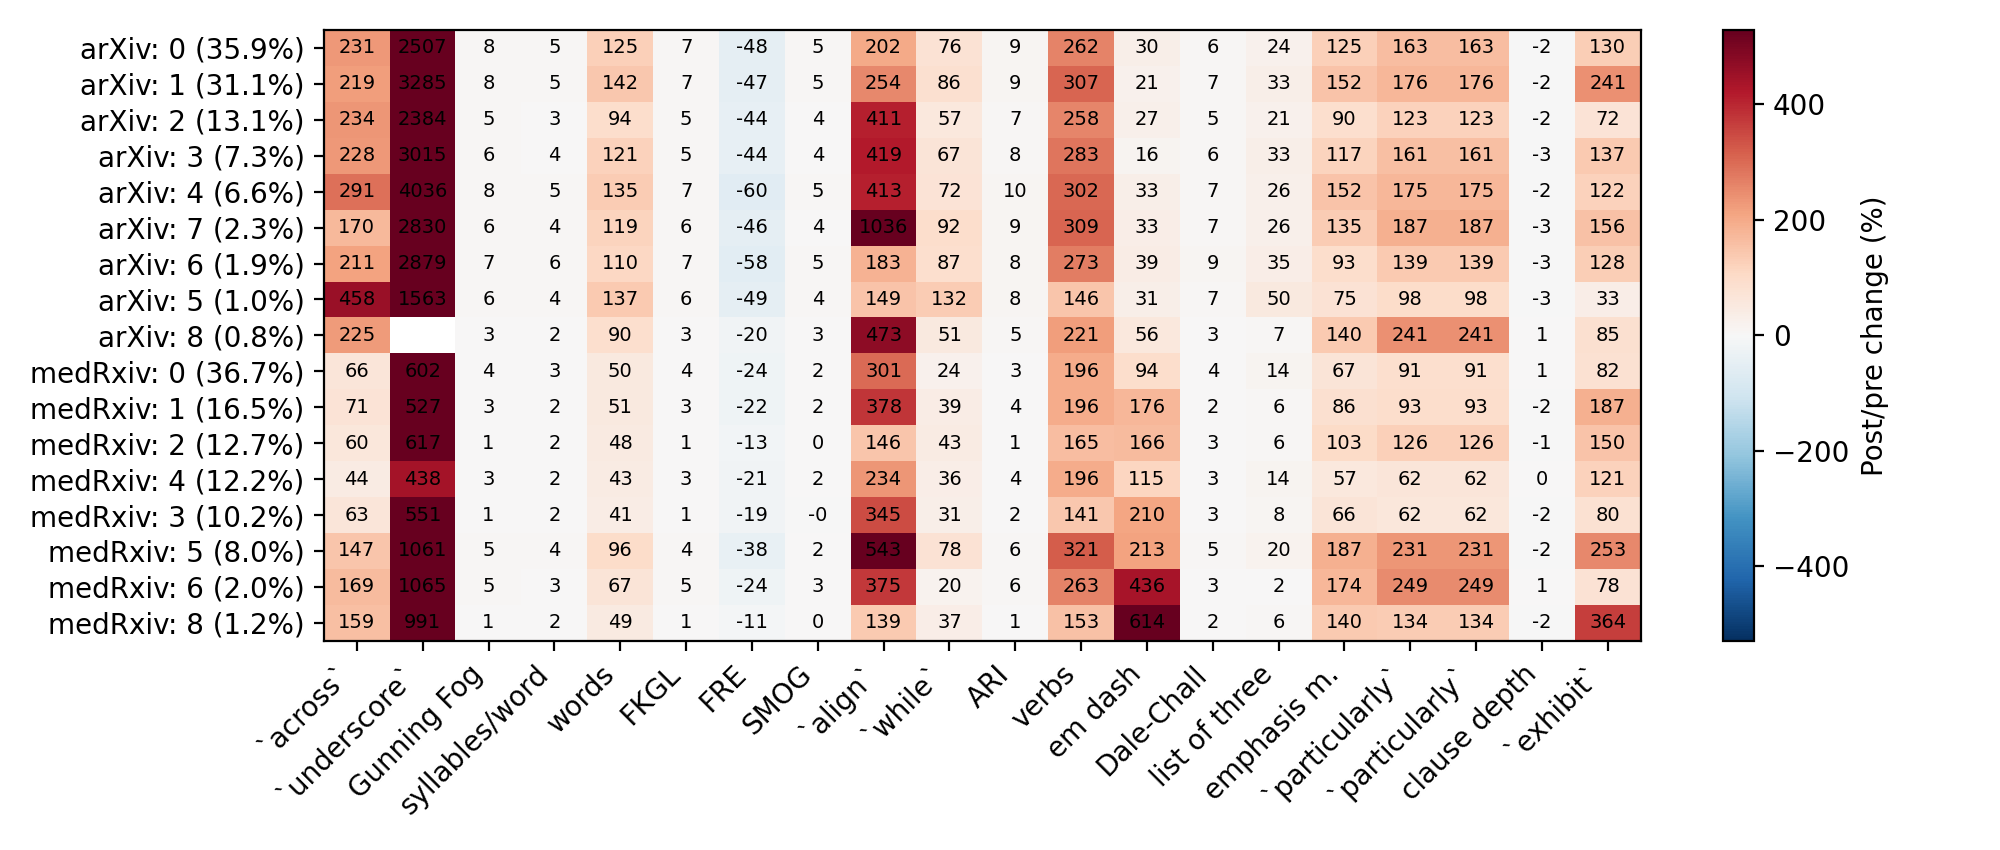
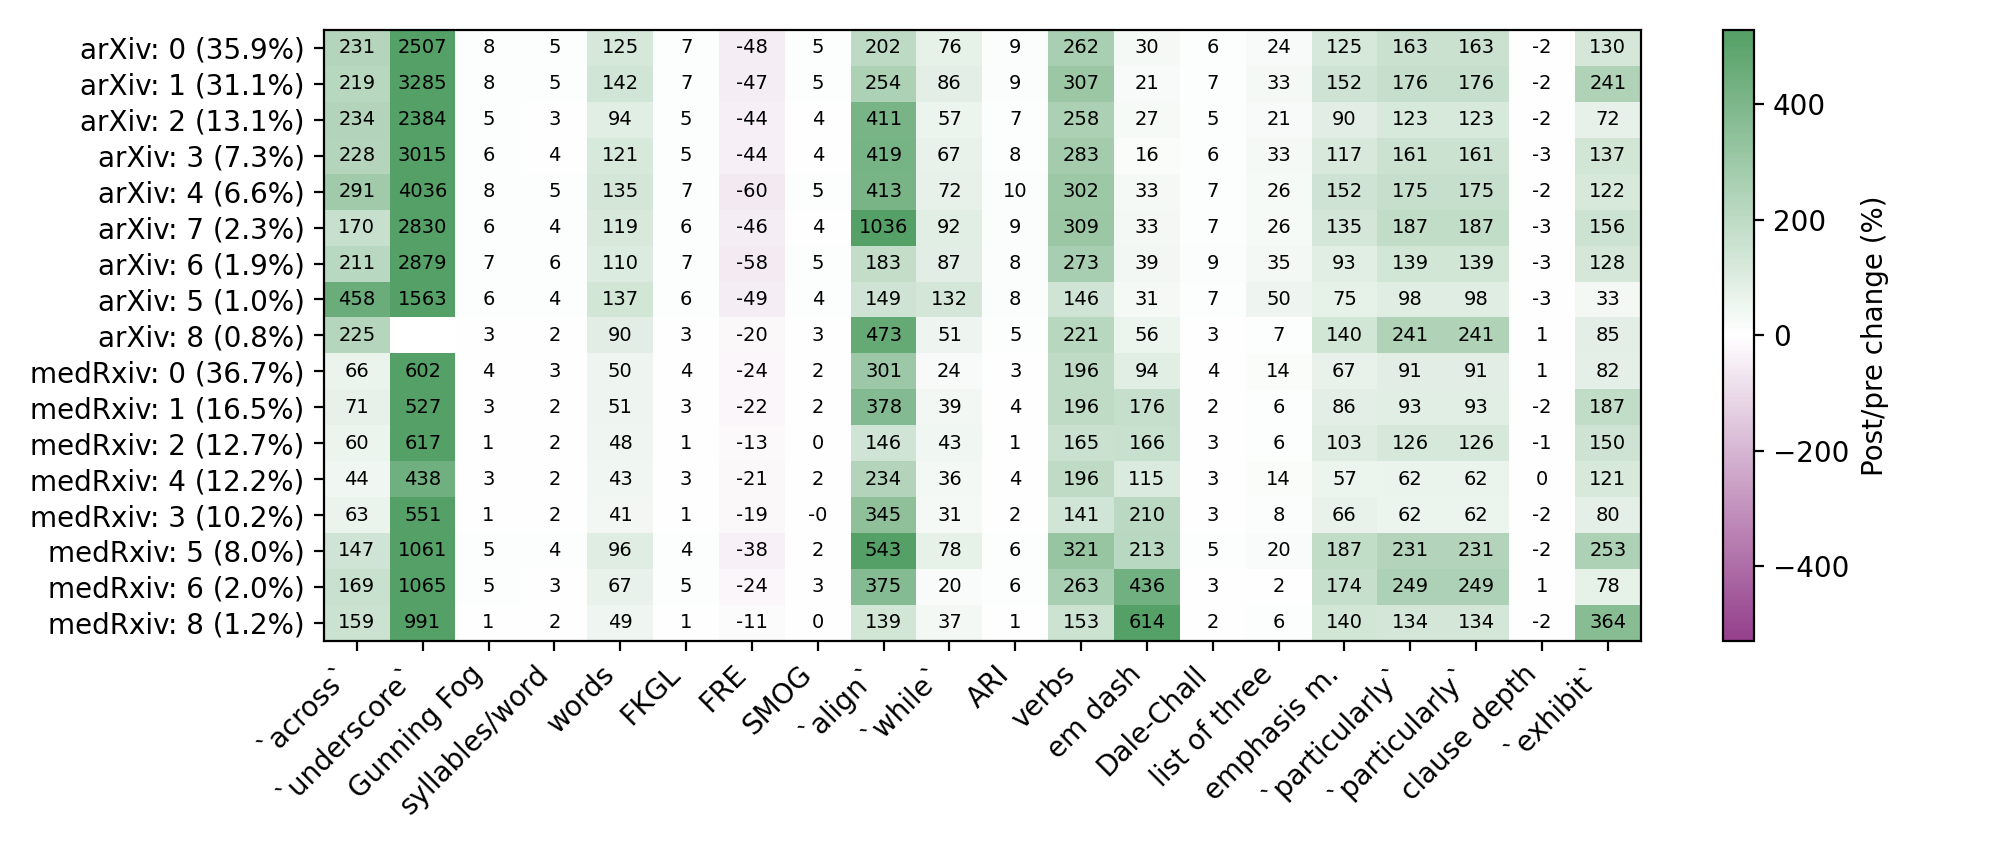
plug in existing colormap

diff --git a/src/not_an_llm/analysis/topic_modeling/comparison.py b/src/not_an_llm/analysis/topic_modeling/comparison.py
@@ -4,6 +4,7 @@ from dataclasses import dataclass
 from pathlib import Path
 
 import matplotlib.pyplot as plt
+from matplotlib.colors import LinearSegmentedColormap
 import numpy as np
 import pandas as pd
 
@@ -27,6 +28,13 @@ DOMAIN_LABELS = {
     "arxiv": "arXiv",
     "medarxiv": "medRxiv",
 }
+
+DECREASE_COLOR = "#943F8B"
+INCREASE_COLOR = "#54A066"
+TOPIC_HEATMAP_CMAP = LinearSegmentedColormap.from_list(
+    "orchid_white_green",
+    [DECREASE_COLOR, "#FFFFFF", INCREASE_COLOR],
+)
 
 
 @dataclass(slots=True)
@@ -368,7 +376,7 @@ def _save_feature_strength_heatmap(df: pd.DataFrame, features: tuple[str, ...], 
     if not np.isfinite(vmax) or vmax == 0.0:
         vmax = 1.0
 
-    image = ax.imshow(values, aspect="auto", cmap="RdBu_r", vmin=-vmax, vmax=vmax)
+    image = ax.imshow(values, aspect="auto", cmap=TOPIC_HEATMAP_CMAP, vmin=-vmax, vmax=vmax)
     ax.set_xticks(range(len(labels)), labels=labels, rotation=45, ha="right")
     ax.set_yticks(range(len(plot_df)), labels=plot_df["topic"])
     # ax.set_title("Post/pre feature change by topic (%)")
@@ -418,7 +426,7 @@ def _save_standardized_its_heatmap(df: pd.DataFrame, features: tuple[str, ...], 
     if not np.isfinite(vmax) or vmax == 0.0:
         vmax = 1.0
 
-    image = ax.imshow(values, aspect="auto", cmap="RdBu_r", vmin=-vmax, vmax=vmax)
+    image = ax.imshow(values, aspect="auto", cmap=TOPIC_HEATMAP_CMAP, vmin=-vmax, vmax=vmax)
     ax.set_xticks(range(len(labels)), labels=labels, rotation=45, ha="right")
     ax.set_yticks(range(len(value_table)), labels=value_table["topic"])
     # ax.set_title("Topic ITS slope change (pre SD/year)")